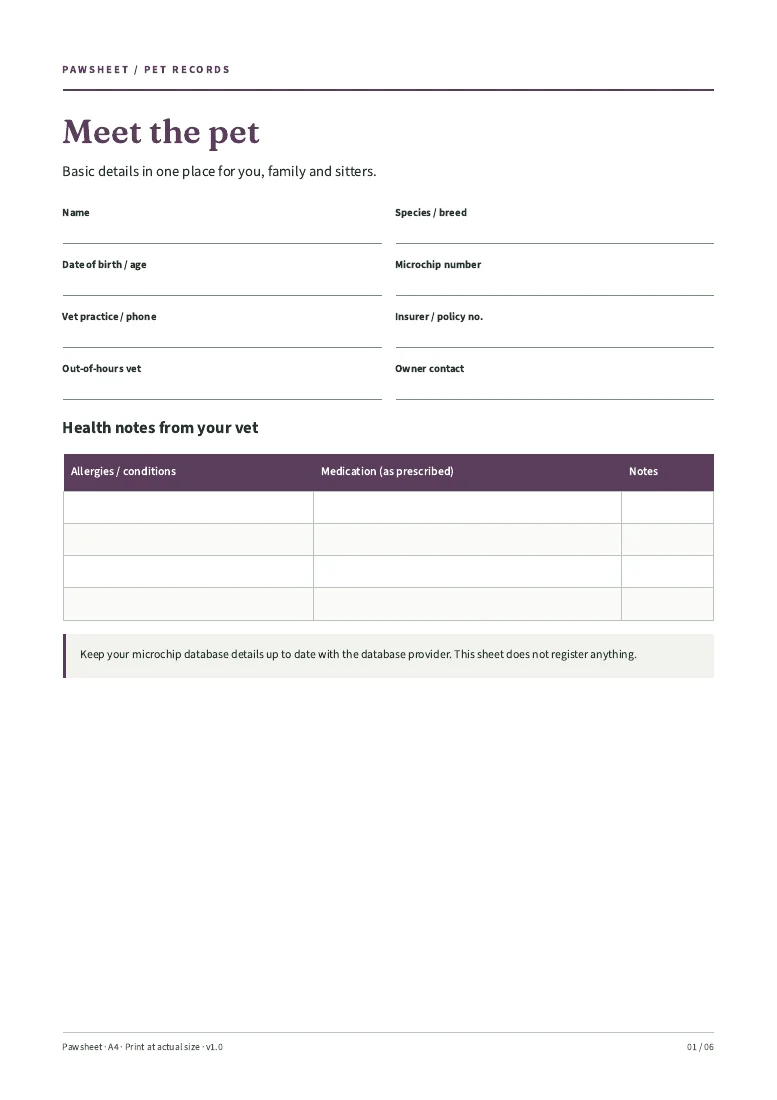
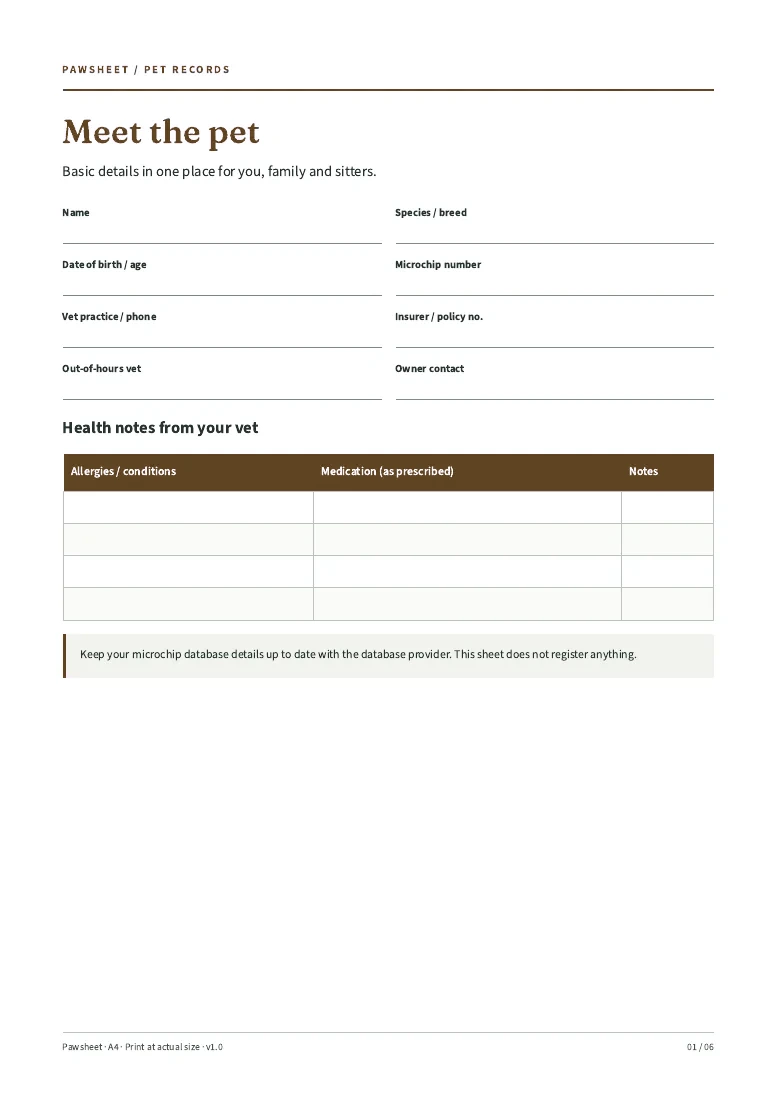
Brown palette (no plum), H1 fits on small phones, plain privacy wording

diff --git a/index.html b/index.html
@@ -1,1 +1,1 @@
-<!doctype html><html lang="en-GB"><head><meta charset="utf-8"><meta name="viewport" content="width=device-width, initial-scale=1"><meta http-equiv="Content-Security-Policy" content="default-src 'none'; script-src 'none'; style-src 'self'; font-src 'self'; img-src 'self'; connect-src 'self'; object-src 'none'; base-uri 'none'; form-action 'none'"><meta name="referrer" content="strict-origin-when-cross-origin"><title>Pet care record printable | Pawsheet</title><meta name="description" content="Pet care record and sitter sheet printable. 6-page A4 printable PDF. Planned price £4 once. Checkout coming soon; no orders taken."><meta property="og:title" content="Pet care record printable | Pawsheet"><meta property="og:description" content="Pet care record and sitter sheet printable. 6-page A4 printable PDF. Planned price £4 once. Checkout coming soon; no orders taken."><meta property="og:type" content="website"><meta property="og:image" content="https://evanturner557-del.github.io/pawsheet/assets/preview-1.webp"><link rel="canonical" href="https://evanturner557-del.github.io/pawsheet/"><link rel="icon" type="image/svg+xml" href="assets/mark.svg"><link rel="stylesheet" href="assets/tokens.css"><link rel="stylesheet" href="assets/site.css"></head><body><a class="skip" href="#main">Skip to content</a><header><div class="wrap nav"><a class="logo" href="index.html"><img src="assets/mark.svg" width="32" height="32" alt="">Pawsheet</a><nav aria-label="Main navigation" class="navlinks"><a href="index.html#inside">Look inside</a><a href="index.html#details">The pack</a></nav></div></header><main id="main"><div class="wrap hero"><div><p class="eyebrow">FOR THE FRIDGE DOOR</p><h1>Your pet’s care notes, ready for the sitter.</h1><p class="lede">A printable pet records pack: vet and treatment dates you write in, feeding routine and a one-page sheet for whoever looks after them.</p><p class="glance"><strong>For:</strong> UK dog and cat owners. <strong>You get:</strong> 6-page A4 printable PDF, to download. <strong>Price:</strong> £4 one-off (planned; not on sale yet).</p><div class="pricebar"><div class="price">£4<small>planned · one-off</small></div><button type="button" disabled>Coming soon</button></div><p class="quiet">Checkout is not open. No orders or payments taken.</p><p class="quiet">6-page A4 printable PDF · Digital files only</p></div><figure class="hero-visual"><img src="assets/preview-1.webp" width="777" height="1100" alt="Pet care record and sitter sheet printable — actual first page of the included PDF" loading="eager" fetchpriority="high"><figcaption>THE REAL FILE / Actual PDF page, not a mock-up.</figcaption></figure></div><div class="strip"><div class="wrap"><span>6-page A4 printable PDF</span><span>One household licence</span><span>No account or subscription</span></div></div><section class="section wrap" id="inside"><div class="sectionhead"><p class="eyebrow">LOOK INSIDE</p><h2>Pet care record and sitter sheet printable.</h2><p>These are renders of the actual included pages. The pack is built; the shop is not open yet.</p></div><div class="proofgrid"><figure class="proof"><div class="proofpic"><img src="assets/preview-1.webp" width="777" height="1100" alt="Everything about your pet" loading="lazy"></div><figcaption><strong>Everything about your pet</strong><span>Actual page 1: microchip, vet, insurer and contacts in one place.</span></figcaption></figure><figure class="proof"><div class="proofpic"><img src="assets/preview-2.webp" width="777" height="1100" alt="Dates you can see" loading="lazy"></div><figcaption><strong>Dates you can see</strong><span>Actual page 3: treatments and visits with the next date your vet gives.</span></figcaption></figure></div></section><section class="section how"><div class="wrap"><p class="eyebrow">THREE SIMPLE STEPS</p><h2>Give each page a job.</h2><div class="steps"><article class="step"><img src="assets/preview-1.webp" width="777" height="1100" alt="Fill the pet page" loading="lazy"><h3>Fill the pet page</h3><p>Use your vet card and paperwork.</p></article><article class="step"><img src="assets/preview-2.webp" width="777" height="1100" alt="Write the routine" loading="lazy"><h3>Write the routine</h3><p>Food, walks and habits, so everyone does the same.</p></article><article class="step"><img src="assets/preview-2.webp" width="777" height="1100" alt="Hand over the sitter sheet" loading="lazy"><h3>Hand over the sitter sheet</h3><p>One page on the fridge when you go away.</p></article></div></div></section><section class="section wrap" id="details"><div class="pricegrid"><div><p class="eyebrow">ONE PACK. ONE PRICE.</p><h2>Know exactly what is in the file.</h2><p>Date-free pages to reprint for each pet in one household.</p><h3>Check the limits first</h3><p>An organisation pack, not veterinary advice. Treatment, vaccination and feeding decisions come from your vet and product labels; dates you write down are reminders only.</p><p class="fine">Standard A4 PDF, rendered and text-extracted in Chromium/Poppler. Made for pen and paper; not fillable or an app.</p></div><div class="pricecard"><p class="badge">Pawsheet / Digital pack</p><p class="large">£4</p><p>Planned price · one-off · not on sale</p><ul class="list"><li>6-page A4 printable PDF</li><li>Pet details page and quick-start guide</li><li>Health and treatment log</li><li>Daily routine page</li><li>One-page sitter sheet</li><li>Weight and notes page</li><li>Plain-text start guide and single-household licence</li></ul><button type="button" disabled>Coming soon</button><p class="fine">No order can be placed here. No payment is collected.</p><p class="fine">No purchases yet. Checkout must show delivery, cancellation and refund terms before sales open. Statutory rights will not be excluded.</p></div></div></section><section class="section how"><div class="wrap faq"><p class="eyebrow">BEFORE YOU DECIDE</p><h2>A few useful answers.</h2><details><summary>What do I need to use it?</summary><p>Standard A4 PDF, rendered and text-extracted in Chromium/Poppler. Made for pen and paper; not fillable or an app.</p></details><details><summary>How do I get started?</summary><p>Start with the pet page. Fill the sitter sheet before your next trip.</p></details><details><summary>Can I buy or download it now?</summary><p>Not yet. The files have been built, but checkout and paid delivery are not open. This page does not take orders or reserve a place.</p></details><details><summary>What about refunds?</summary><p>No purchases are being taken. Sale and delivery terms, including your cancellation and statutory rights, must be shown before checkout opens. There is no blanket “no refunds” policy.</p></details><details><summary>Who is behind it, and what if it is not a fit?</summary><p>Pawsheet is a UK sole-trader trading name. No veterinary advice, treatment schedules, doses, feeding amounts or reminders. Not linked to any microchip database. Please check the previews and limits before buying once sales open.</p></details></div></section><section class="final"><p class="eyebrow">PAWSHEET / 6-page A4 printable PDF</p><h2>Your pet’s care notes, ready for the sitter.</h2><p>£4 planned · one-off. Checkout is not open.</p><button type="button" disabled>Coming soon</button></section></main><footer><div class="wrap"><nav class="footerlinks" aria-label="Legal"><a href="privacy.html">Privacy</a><a href="terms.html">Terms</a></nav><p class="legal">Operated by a UK sole trader trading as Pawsheet. Contact: localreply+pawsheet@agentmail.to. Postal address available on written request.</p><p class="quiet">Digital files only. Checkout is not open. No orders are being taken.</p></div></footer></body></html>
+<!doctype html><html lang="en-GB"><head><meta charset="utf-8"><meta name="viewport" content="width=device-width, initial-scale=1"><meta http-equiv="Content-Security-Policy" content="default-src 'none'; script-src 'none'; style-src 'self'; font-src 'self'; img-src 'self'; connect-src 'self'; object-src 'none'; base-uri 'none'; form-action 'none'"><meta name="referrer" content="strict-origin-when-cross-origin"><title>Pet care record printable | Pawsheet</title><meta name="description" content="Pet care record and sitter sheet printable. 6-page A4 printable PDF. Planned price £4 once. Checkout coming soon; no orders taken."><meta property="og:title" content="Pet care record printable | Pawsheet"><meta property="og:description" content="Pet care record and sitter sheet printable. 6-page A4 printable PDF. Planned price £4 once. Checkout coming soon; no orders taken."><meta property="og:type" content="website"><meta property="og:image" content="https://evanturner557-del.github.io/pawsheet/assets/preview-1.webp"><link rel="canonical" href="https://evanturner557-del.github.io/pawsheet/"><link rel="icon" type="image/svg+xml" href="assets/mark.svg"><link rel="stylesheet" href="assets/tokens.css"><link rel="stylesheet" href="assets/site.css"></head><body><a class="skip" href="#main">Skip to content</a><header><div class="wrap nav"><a class="logo" href="index.html"><img src="assets/mark.svg" width="32" height="32" alt="">Pawsheet</a><nav aria-label="Main navigation" class="navlinks"><a href="index.html#inside">Look inside</a><a href="index.html#details">The pack</a></nav></div></header><main id="main"><div class="wrap hero"><div><p class="eyebrow">FOR THE FRIDGE DOOR</p><h1>Your pet’s care notes, ready for the sitter.</h1><p class="lede">A printable pet records pack: vet and treatment dates you write in, feeding routine and a one-page sheet for whoever looks after them.</p><p class="glance"><strong>For:</strong> UK dog and cat owners. <strong>You get:</strong> 6-page A4 printable PDF, to download. <strong>Price:</strong> £4 one-off (planned; not on sale yet).</p><div class="pricebar"><div class="price">£4<small>planned · one-off</small></div><button type="button" disabled>Coming soon</button></div><p class="quiet">Checkout is not open. No orders or payments taken.</p><p class="quiet">6-page A4 printable PDF · Digital files only</p></div><figure class="hero-visual"><img src="assets/preview-1.webp" width="777" height="1100" alt="Pet care record and sitter sheet printable — actual first page of the included PDF" loading="eager" fetchpriority="high"><figcaption>THE REAL FILE / Actual PDF page, not a mock-up.</figcaption></figure></div><div class="strip"><div class="wrap"><span>6-page A4 printable PDF</span><span>One household licence</span><span>No account or subscription</span></div></div><section class="section wrap" id="inside"><div class="sectionhead"><p class="eyebrow">LOOK INSIDE</p><h2>Pet care record and sitter sheet printable.</h2><p>These are renders of the actual included pages. The pack is built; the shop is not open yet.</p></div><div class="proofgrid"><figure class="proof"><div class="proofpic"><img src="assets/preview-1.webp" width="777" height="1100" alt="Everything about your pet" loading="lazy"></div><figcaption><strong>Everything about your pet</strong><span>Actual page 1: microchip, vet, insurer and contacts in one place.</span></figcaption></figure><figure class="proof"><div class="proofpic"><img src="assets/preview-2.webp" width="777" height="1100" alt="Dates you can see" loading="lazy"></div><figcaption><strong>Dates you can see</strong><span>Actual page 3: treatments and visits with the next date your vet gives.</span></figcaption></figure></div></section><section class="section how"><div class="wrap"><p class="eyebrow">THREE SIMPLE STEPS</p><h2>Give each page a job.</h2><div class="steps"><article class="step"><img src="assets/preview-1.webp" width="777" height="1100" alt="Fill the pet page" loading="lazy"><h3>Fill the pet page</h3><p>Use your vet card and paperwork.</p></article><article class="step"><img src="assets/preview-2.webp" width="777" height="1100" alt="Write the routine" loading="lazy"><h3>Write the routine</h3><p>Food, walks and habits, so everyone does the same.</p></article><article class="step"><img src="assets/preview-2.webp" width="777" height="1100" alt="Hand over the sitter sheet" loading="lazy"><h3>Hand over the sitter sheet</h3><p>One page on the fridge when you go away.</p></article></div></div></section><section class="section wrap" id="details"><div class="pricegrid"><div><p class="eyebrow">ONE PACK. ONE PRICE.</p><h2>Know exactly what is in the file.</h2><p>Date-free pages to reprint for each pet in one household.</p><h3>Check the limits first</h3><p>An organisation pack, not veterinary advice. Treatment, vaccination and feeding decisions come from your vet and product labels; dates you write down are reminders only.</p><p class="fine">Standard A4 PDF, we opened the files and checked the text reads correctly. Made for pen and paper; not fillable or an app.</p></div><div class="pricecard"><p class="badge">Pawsheet / Digital pack</p><p class="large">£4</p><p>Planned price · one-off · not on sale</p><ul class="list"><li>6-page A4 printable PDF</li><li>Pet details page and quick-start guide</li><li>Health and treatment log</li><li>Daily routine page</li><li>One-page sitter sheet</li><li>Weight and notes page</li><li>Plain-text start guide and single-household licence</li></ul><button type="button" disabled>Coming soon</button><p class="fine">No order can be placed here. No payment is collected.</p><p class="fine">No purchases yet. Checkout must show delivery, cancellation and refund terms before sales open. Statutory rights will not be excluded.</p></div></div></section><section class="section how"><div class="wrap faq"><p class="eyebrow">BEFORE YOU DECIDE</p><h2>A few useful answers.</h2><details><summary>What do I need to use it?</summary><p>Standard A4 PDF, we opened the files and checked the text reads correctly. Made for pen and paper; not fillable or an app.</p></details><details><summary>How do I get started?</summary><p>Start with the pet page. Fill the sitter sheet before your next trip.</p></details><details><summary>Can I buy or download it now?</summary><p>Not yet. The files have been built, but checkout and paid delivery are not open. This page does not take orders or reserve a place.</p></details><details><summary>What about refunds?</summary><p>No purchases are being taken. Sale and delivery terms, including your cancellation and statutory rights, must be shown before checkout opens. There is no blanket “no refunds” policy.</p></details><details><summary>Who is behind it, and what if it is not a fit?</summary><p>Pawsheet is a UK sole-trader trading name. No veterinary advice, treatment schedules, doses, feeding amounts or reminders. Not linked to any microchip database. Please check the previews and limits before buying once sales open.</p></details></div></section><section class="final"><p class="eyebrow">PAWSHEET / 6-page A4 printable PDF</p><h2>Your pet’s care notes, ready for the sitter.</h2><p>£4 planned · one-off. Checkout is not open.</p><button type="button" disabled>Coming soon</button></section></main><footer><div class="wrap"><nav class="footerlinks" aria-label="Legal"><a href="privacy.html">Privacy</a><a href="terms.html">Terms</a></nav><p class="legal">Operated by a UK sole trader trading as Pawsheet. Contact: localreply+pawsheet@agentmail.to. Postal address available on written request.</p><p class="quiet">Digital files only. Checkout is not open. No orders are being taken.</p></div></footer></body></html>

diff --git a/assets/site.css b/assets/site.css
@@ -1,2 +1,8 @@
-@font-face{font-family:Text;src:url(fonts/source-sans-3-latin-wght-normal.woff2) format('woff2');font-display:swap}@font-face{font-family:Display;src:url(fonts/fraunces-latin-wght-normal.woff2) format('woff2');font-display:swap}*{box-sizing:border-box}html{scroll-behavior:smooth}body{margin:0;background:var(--paper);color:var(--ink);font-family:Text,Arial,sans-serif;font-size:18px;line-height:1.55}a{color:inherit;text-underline-offset:4px}a:hover{text-decoration-thickness:2px}a:focus-visible,button:focus-visible,summary:focus-visible{outline:3px solid var(--primary);outline-offset:5px}img{max-width:100%;height:auto;display:block}h1,h2,h3,p{margin-top:0}h1,h2{font-family:Display,serif;font-weight:600;letter-spacing:-.035em;line-height:1.06}h1{font-size:clamp(44px,5.8vw,76px);max-width:12ch;margin-bottom:24px}h2{font-size:clamp(34px,4vw,48px);margin-bottom:22px}h3{font-size:23px;line-height:1.2;letter-spacing:-.015em}p{max-width:63ch}button,a{touch-action:manipulation}button{font-family:inherit}button[disabled]{opacity:1;cursor:not-allowed;background:var(--primary);color:#fff;border:2px solid var(--primary);padding:14px 25px;border-radius:6px;font-size:18px;font-weight:700;min-height:52px}header{border-bottom:1px solid var(--line)}.wrap{width:min(1184px,calc(100% - 64px));margin-inline:auto}.nav{display:flex;align-items:center;justify-content:space-between;min-height:88px;gap:20px}.logo{display:flex;align-items:center;gap:12px;font-family:Display,serif;font-size:27px;text-decoration:none;font-weight:600}.logo img{width:32px;height:32px}.navlinks{display:flex;gap:22px}.navlinks a{font-size:16px;min-height:44px;display:inline-flex;align-items:center}.skip{position:absolute;left:-9999px;top:10px;background:white;padding:12px;z-index:9}.skip:focus{left:12px}.hero{display:grid;grid-template-columns:1fr 1fr;gap:70px;align-items:center;padding:64px 0 72px}.eyebrow{font-size:12px;letter-spacing:.14em;font-weight:700;color:var(--primary);margin-bottom:20px}.lede{font-size:21px;line-height:1.5;max-width:38ch}.pricebar{display:flex;gap:23px;align-items:center;margin:26px 0 12px}.price{font-size:34px;font-weight:700;letter-spacing:-.04em;line-height:1}.price small{display:block;font-size:14px;font-weight:400;letter-spacing:0;margin-top:7px;line-height:1.4}.quiet{font-size:15px;color:var(--muted)}.hero-visual{margin:0;position:relative;background:var(--accent);padding:26px 34px 18px;border-radius:100px 8px 8px 8px}.hero-visual img{width:100%;box-shadow:0 14px 35px #0002;border:1px solid #22372b30}.hero-visual figcaption{font-size:13px;margin-top:18px;font-weight:600;color:var(--ink);line-height:1.4}.strip{background:var(--primary);color:white}.strip .wrap{display:flex;justify-content:space-between;gap:20px;padding-block:21px;font-size:16px}.section{padding:88px 0}.sectionhead{max-width:650px}.proofgrid{display:grid;grid-template-columns:1fr 1fr;gap:32px;margin-top:38px}.proof{margin:0}.proofpic{background:white;border:1px solid var(--line);padding:26px;border-radius:8px}.proofpic img{max-height:560px;width:100%;object-fit:contain;object-position:top}.proof figcaption{padding:18px 0}.proof figcaption strong{display:block;font-size:22px;margin-bottom:7px}.proof figcaption span{font-size:17px;color:var(--muted)}.how{background:var(--soft);border-block:1px solid var(--line)}.steps{display:grid;grid-template-columns:repeat(3,1fr);gap:36px;margin-top:36px;counter-reset:step}.step img{height:160px;width:100%;object-fit:cover;object-position:top;border:1px solid var(--line);margin-bottom:25px;background:white}.step h3:before{counter-increment:step;content:'0' counter(step) ' / ';color:var(--primary);font-size:15px}.step p{font-size:17px}.pricegrid{display:grid;grid-template-columns:1fr 1fr;gap:90px;align-items:start}.pricecard{background:#fff;border:1px solid var(--primary);border-top:7px solid var(--primary);padding:35px;border-radius:6px}.pricecard .large{font-size:54px;line-height:1;letter-spacing:-.05em;font-weight:700;margin:24px 0 12px}.list{padding-left:21px}.list li{margin-bottom:11px}.fine{font-size:15px}.faq{max-width:840px;margin:auto}.faq details{border-bottom:1px solid var(--line);padding:10px 0}.faq summary{font-weight:600;cursor:pointer;min-height:52px;padding:12px 32px 12px 0;line-height:1.5;font-size:20px}.faq details p{padding-right:30px;font-size:17px}.final{text-align:center;background:var(--accent);padding:62px 20px}.final p{margin-inline:auto}.final h2{max-width:20ch;margin-inline:auto}footer{padding:40px 0 46px;font-size:14px}.footerlinks{display:flex;gap:20px;flex-wrap:wrap;margin-bottom:18px}.footerlinks a{min-height:44px;display:flex;align-items:center}.legal{max-width:900px;overflow-wrap:anywhere}main.document{max-width:820px;padding:65px 0 90px}.document h1{font-size:54px;max-width:none}.document h2{font-size:29px;margin-top:38px}.document p,.document li{font-size:18px}.badge{font-size:14px;font-weight:600;color:var(--primary)}.sr{position:absolute;width:1px;height:1px;overflow:hidden;clip:rect(0,0,0,0)}@media(max-width:800px){.wrap{width:calc(100% - 40px)}.hero{gap:34px;padding:40px 0 45px}.nav{min-height:72px}.logo{font-size:24px}.navlinks{gap:14px}.navlinks a{font-size:14px}.hero-visual{padding:24px 20px 16px;border-top-left-radius:65px}.lede{font-size:19px}.section{padding:60px 0}.pricegrid{gap:35px}.steps{gap:22px}.pricecard{padding:25px}.proofpic{padding:18px}}@media(max-width:600px){.hero{display:block;padding-top:32px}.eyebrow{font-size:10px;margin-bottom:15px}h1{font-size:45px;max-width:12ch;margin-bottom:19px}.hero .lede{font-size:18px;line-height:1.5;margin-bottom:18px}.hero-visual{margin-top:32px;padding:26px 30px 17px}.pricebar{margin:21px 0 10px;gap:21px}.price{font-size:31px}.quiet{font-size:14px}.navlinks a{font-size:13px}.navlinks a:last-child{display:none}.logo{font-size:23px}.strip .wrap{display:grid;grid-template-columns:1fr;gap:8px;padding-block:20px}.proofgrid,.steps,.pricegrid{grid-template-columns:1fr;gap:24px}.proofgrid{margin-top:28px}.step{display:grid;grid-template-columns:86px 1fr;column-gap:19px}.step img{grid-row:1/3;height:118px;margin:0}.step h3{font-size:21px;margin-bottom:10px}.step p{font-size:16px}.pricegrid{gap:30px}.section{padding:52px 0}.proofpic img{max-height:430px}.final{padding:46px 20px}.document h1{font-size:40px}.document h2{font-size:27px}.navlinks{gap:10px}.legal{font-size:13px}.faq summary{font-size:18px}}@media(prefers-reduced-motion:reduce){html{scroll-behavior:auto}}
+@font-face{font-family:Text;src:url(fonts/source-sans-3-latin-wght-normal.woff2) format('woff2');font-display:swap}@font-face{font-family:Display;src:url(fonts/fraunces-latin-wght-normal.woff2) format('woff2');font-display:swap}*{box-sizing:border-box}html{scroll-behavior:smooth}body{margin:0;background:var(--paper);color:var(--ink);font-family:Text,Arial,sans-serif;font-size:18px;line-height:1.55}a{color:inherit;text-underline-offset:4px}a:hover{text-decoration-thickness:2px}a:focus-visible,button:focus-visible,summary:focus-visible{outline:3px solid var(--primary);outline-offset:5px}img{max-width:100%;height:auto;display:block}h1,h2,h3,p{margin-top:0}h1,h2{font-family:Display,serif;font-weight:600;letter-spacing:-.035em;line-height:1.06}h1{font-size:clamp(1.85rem,6.5vw + .35rem,3.25rem);max-width:none;width:100%;margin-bottom:24px;text-wrap:balance;overflow-wrap:anywhere;letter-spacing:-.02em}h2{font-size:clamp(34px,4vw,48px);margin-bottom:22px}h3{font-size:23px;line-height:1.2;letter-spacing:-.015em}p{max-width:63ch}button,a{touch-action:manipulation}button{font-family:inherit}button[disabled]{opacity:1;cursor:not-allowed;background:var(--primary);color:#fff;border:2px solid var(--primary);padding:14px 25px;border-radius:6px;font-size:18px;font-weight:700;min-height:52px}header{border-bottom:1px solid var(--line)}.wrap{width:min(1184px,calc(100% - 64px));margin-inline:auto}.nav{display:flex;align-items:center;justify-content:space-between;min-height:88px;gap:20px}.logo{display:flex;align-items:center;gap:12px;font-family:Display,serif;font-size:27px;text-decoration:none;font-weight:600}.logo img{width:32px;height:32px}.navlinks{display:flex;gap:22px}.navlinks a{font-size:16px;min-height:44px;display:inline-flex;align-items:center}.skip{position:absolute;left:-9999px;top:10px;background:white;padding:12px;z-index:9}.skip:focus{left:12px}.hero{display:grid;grid-template-columns:1fr 1fr;gap:70px;align-items:center;padding:64px 0 72px}.eyebrow{font-size:12px;letter-spacing:.14em;font-weight:700;color:var(--primary);margin-bottom:20px}.lede{font-size:21px;line-height:1.5;max-width:38ch}.pricebar{display:flex;gap:23px;align-items:center;margin:26px 0 12px}.price{font-size:34px;font-weight:700;letter-spacing:-.04em;line-height:1}.price small{display:block;font-size:14px;font-weight:400;letter-spacing:0;margin-top:7px;line-height:1.4}.quiet{font-size:15px;color:var(--muted)}.hero-visual{margin:0;position:relative;background:var(--accent);padding:26px 34px 18px;border-radius:100px 8px 8px 8px}.hero-visual img{width:100%;box-shadow:0 14px 35px #0002;border:1px solid #22372b30}.hero-visual figcaption{font-size:13px;margin-top:18px;font-weight:600;color:var(--ink);line-height:1.4}.strip{background:var(--primary);color:white}.strip .wrap{display:flex;justify-content:space-between;gap:20px;padding-block:21px;font-size:16px}.section{padding:88px 0}.sectionhead{max-width:650px}.proofgrid{display:grid;grid-template-columns:1fr 1fr;gap:32px;margin-top:38px}.proof{margin:0}.proofpic{background:white;border:1px solid var(--line);padding:26px;border-radius:8px}.proofpic img{max-height:560px;width:100%;object-fit:contain;object-position:top}.proof figcaption{padding:18px 0}.proof figcaption strong{display:block;font-size:22px;margin-bottom:7px}.proof figcaption span{font-size:17px;color:var(--muted)}.how{background:var(--soft);border-block:1px solid var(--line)}.steps{display:grid;grid-template-columns:repeat(3,1fr);gap:36px;margin-top:36px;counter-reset:step}.step img{height:160px;width:100%;object-fit:cover;object-position:top;border:1px solid var(--line);margin-bottom:25px;background:white}.step h3:before{counter-increment:step;content:'0' counter(step) ' / ';color:var(--primary);font-size:15px}.step p{font-size:17px}.pricegrid{display:grid;grid-template-columns:1fr 1fr;gap:90px;align-items:start}.pricecard{background:#fff;border:1px solid var(--primary);border-top:7px solid var(--primary);padding:35px;border-radius:6px}.pricecard .large{font-size:54px;line-height:1;letter-spacing:-.05em;font-weight:700;margin:24px 0 12px}.list{padding-left:21px}.list li{margin-bottom:11px}.fine{font-size:15px}.faq{max-width:840px;margin:auto}.faq details{border-bottom:1px solid var(--line);padding:10px 0}.faq summary{font-weight:600;cursor:pointer;min-height:52px;padding:12px 32px 12px 0;line-height:1.5;font-size:20px}.faq details p{padding-right:30px;font-size:17px}.final{text-align:center;background:var(--accent);padding:62px 20px}.final p{margin-inline:auto}.final h2{max-width:20ch;margin-inline:auto}footer{padding:40px 0 46px;font-size:14px}.footerlinks{display:flex;gap:20px;flex-wrap:wrap;margin-bottom:18px}.footerlinks a{min-height:44px;display:flex;align-items:center}.legal{max-width:900px;overflow-wrap:anywhere}main.document{max-width:820px;padding:65px 0 90px}.document h1{font-size:54px;max-width:none}.document h2{font-size:29px;margin-top:38px}.document p,.document li{font-size:18px}.badge{font-size:14px;font-weight:600;color:var(--primary)}.sr{position:absolute;width:1px;height:1px;overflow:hidden;clip:rect(0,0,0,0)}@media(max-width:800px){.wrap{width:calc(100% - 40px)}.hero{gap:34px;padding:40px 0 45px}.nav{min-height:72px}.logo{font-size:24px}.navlinks{gap:14px}.navlinks a{font-size:14px}.hero-visual{padding:24px 20px 16px;border-top-left-radius:65px}.lede{font-size:19px}.section{padding:60px 0}.pricegrid{gap:35px}.steps{gap:22px}.pricecard{padding:25px}.proofpic{padding:18px}}@media(max-width:600px){.hero{display:block;padding-top:32px}.eyebrow{font-size:10px;margin-bottom:15px}h1{font-size:clamp(1.85rem,6.5vw + .35rem,2.6rem);max-width:none;width:100%;margin-bottom:19px;text-wrap:balance;overflow-wrap:anywhere;letter-spacing:-.02em}.hero .lede{font-size:18px;line-height:1.5;margin-bottom:18px}.hero-visual{margin-top:32px;padding:26px 30px 17px}.pricebar{margin:21px 0 10px;gap:21px}.price{font-size:31px}.quiet{font-size:14px}.navlinks a{font-size:13px}.navlinks a:last-child{display:none}.logo{font-size:23px}.strip .wrap{display:grid;grid-template-columns:1fr;gap:8px;padding-block:20px}.proofgrid,.steps,.pricegrid{grid-template-columns:1fr;gap:24px}.proofgrid{margin-top:28px}.step{display:grid;grid-template-columns:86px 1fr;column-gap:19px}.step img{grid-row:1/3;height:118px;margin:0}.step h3{font-size:21px;margin-bottom:10px}.step p{font-size:16px}.pricegrid{gap:30px}.section{padding:52px 0}.proofpic img{max-height:430px}.final{padding:46px 20px}.document h1{font-size:40px}.document h2{font-size:27px}.navlinks{gap:10px}.legal{font-size:13px}.faq summary{font-size:18px}}@media(prefers-reduced-motion:reduce){html{scroll-behavior:auto}}
 .glance{font-size:17px;line-height:1.5;background:var(--soft);border-left:4px solid var(--primary);padding:12px 16px;margin:0 0 22px;max-width:56ch}
+
+/* prep-d09-h1-overflow */html,body{overflow-x:clip}h1{overflow-wrap:break-word;text-wrap:balance}
+
+.hero>div:first-child{min-width:0;max-width:100%}h1{box-sizing:border-box;padding-inline:0}
+
+/* prep-d09-h1-track */h1{letter-spacing:-.02em!important}

diff --git a/privacy.html b/privacy.html
@@ -1,1 +1,1 @@
-<!doctype html><html lang="en-GB"><head><meta charset="utf-8"><meta name="viewport" content="width=device-width, initial-scale=1"><meta http-equiv="Content-Security-Policy" content="default-src 'none'; script-src 'none'; style-src 'self'; font-src 'self'; img-src 'self'; connect-src 'self'; object-src 'none'; base-uri 'none'; form-action 'none'"><meta name="referrer" content="strict-origin-when-cross-origin"><title>Privacy | Pawsheet</title><meta name="description" content="Privacy for Pawsheet"><meta property="og:title" content="Privacy | Pawsheet"><meta property="og:description" content="Privacy for Pawsheet"><meta property="og:type" content="website"><meta property="og:image" content="https://evanturner557-del.github.io/pawsheet/assets/preview-1.webp"><link rel="canonical" href="https://evanturner557-del.github.io/pawsheet/"><link rel="icon" type="image/svg+xml" href="assets/mark.svg"><link rel="stylesheet" href="assets/tokens.css"><link rel="stylesheet" href="assets/site.css"></head><body><a class="skip" href="#main">Skip to content</a><header><div class="wrap nav"><a class="logo" href="index.html"><img src="assets/mark.svg" width="32" height="32" alt="">Pawsheet</a><nav aria-label="Main navigation" class="navlinks"><a href="index.html#inside">Look inside</a><a href="index.html#details">The pack</a></nav></div></header><main id="main" class="wrap document"><h1>Privacy</h1><p>Last updated: 8 November 2026.</p><h2>Who is responsible</h2><p>Pawsheet is operated by a UK sole trader. Contact: localreply+pawsheet@agentmail.to. Postal address available on written request.</p><h2>This site</h2><p>This is a static information site. We do not run forms, analytics, tracking pixels, advertising cookies, payments or user accounts. We do not place cookies or use local storage. Images and fonts are served with the site. The downloadable files have no tracking or upload feature.</p><h2>Hosting records</h2><p>If hosted on GitHub Pages, GitHub may process technical request information, including IP address, browser details and access logs, to operate and secure the service. Its retention and international processing are governed by GitHub’s privacy statement. This site is currently prepared as a local draft. Hosting details must be checked when deployed.</p><h2>If you email</h2><p>Sending email is optional. The mailbox is handled through AgentMail. Your email address, message and attachments may be processed to handle your enquiry and keep necessary business records. We use legitimate interests for ordinary enquiries and legal obligations where records must be kept. We cannot promise a reply or a timeframe yet. Do not send sensitive data or completed planners.</p><h2>Retention and processors</h2><p>Enquiries should be kept only as long as needed to handle the request or a legal obligation, then removed. No automatic deletion schedule has been verified. AgentMail and any deployed hosting provider may process data outside the UK. Processor terms and transfer safeguards must be reviewed before a sales service is opened. We do not sell your personal information.</p><h2>Your rights</h2><p>You may ask about access, correction, deletion, restriction, portability where applicable, or object to legitimate-interest processing. Contact the address above. Statutory response requirements still apply; our support statement does not remove your rights. You may complain to the Information Commissioner’s Office at ico.org.uk.</p><h2>Changes</h2><p>If checkout, analytics or another data-collecting feature is added, this notice must be reviewed before that feature is used.</p></main><footer><div class="wrap"><nav class="footerlinks" aria-label="Legal"><a href="privacy.html">Privacy</a><a href="terms.html">Terms</a></nav><p class="legal">Operated by a UK sole trader trading as Pawsheet. Contact: localreply+pawsheet@agentmail.to. Postal address available on written request.</p><p class="quiet">Digital files only. Checkout is not open. No orders are being taken.</p></div></footer></body></html>
+<!doctype html><html lang="en-GB"><head><meta charset="utf-8"><meta name="viewport" content="width=device-width, initial-scale=1"><meta http-equiv="Content-Security-Policy" content="default-src 'none'; script-src 'none'; style-src 'self'; font-src 'self'; img-src 'self'; connect-src 'self'; object-src 'none'; base-uri 'none'; form-action 'none'"><meta name="referrer" content="strict-origin-when-cross-origin"><title>Privacy | Pawsheet</title><meta name="description" content="Privacy for Pawsheet"><meta property="og:title" content="Privacy | Pawsheet"><meta property="og:description" content="Privacy for Pawsheet"><meta property="og:type" content="website"><meta property="og:image" content="https://evanturner557-del.github.io/pawsheet/assets/preview-1.webp"><link rel="canonical" href="https://evanturner557-del.github.io/pawsheet/"><link rel="icon" type="image/svg+xml" href="assets/mark.svg"><link rel="stylesheet" href="assets/tokens.css"><link rel="stylesheet" href="assets/site.css"></head><body><a class="skip" href="#main">Skip to content</a><header><div class="wrap nav"><a class="logo" href="index.html"><img src="assets/mark.svg" width="32" height="32" alt="">Pawsheet</a><nav aria-label="Main navigation" class="navlinks"><a href="index.html#inside">Look inside</a><a href="index.html#details">The pack</a></nav></div></header><main id="main" class="wrap document"><h1>Privacy</h1><p>Last updated: 8 November 2026.</p><h2>Who is responsible</h2><p>Pawsheet is operated by a UK sole trader. Contact: localreply+pawsheet@agentmail.to. Postal address available on written request.</p><h2>This site</h2><p>This is a static information site. We do not run forms, analytics, tracking pixels, advertising cookies, payments or user accounts. We do not place cookies or use local storage. Images and fonts are served with the site. The downloadable files have no tracking or upload feature.</p><h2>Hosting records</h2><p>This site is hosted on GitHub Pages. GitHub may process technical request information, including IP address, browser details and access logs, to operate and secure the service. Its retention and international processing are governed by GitHub’s privacy statement. </p><h2>If you email</h2><p>Sending email is optional. The mailbox is handled through AgentMail. Your email address, message and attachments may be processed to handle your enquiry and keep necessary business records. We use legitimate interests for ordinary enquiries and legal obligations where records must be kept. We cannot promise a reply or a timeframe yet. Do not send sensitive data or completed planners.</p><h2>Retention and processors</h2><p>Enquiries should be kept only as long as needed to handle the request or a legal obligation, then removed. No automatic deletion schedule has been verified. AgentMail and any deployed hosting provider may process data outside the UK. Processor terms and transfer safeguards must be reviewed before a sales service is opened. We do not sell your personal information.</p><h2>Your rights</h2><p>You may ask about access, correction, deletion, restriction, portability where applicable, or object to legitimate-interest processing. Contact the address above. Statutory response requirements still apply; our support statement does not remove your rights. You may complain to the Information Commissioner’s Office at ico.org.uk.</p><h2>Changes</h2><p>If checkout, analytics or another data-collecting feature is added, this notice must be reviewed before that feature is used.</p></main><footer><div class="wrap"><nav class="footerlinks" aria-label="Legal"><a href="privacy.html">Privacy</a><a href="terms.html">Terms</a></nav><p class="legal">Operated by a UK sole trader trading as Pawsheet. Contact: localreply+pawsheet@agentmail.to. Postal address available on written request.</p><p class="quiet">Digital files only. Checkout is not open. No orders are being taken.</p></div></footer></body></html>

diff --git a/assets/tokens.css b/assets/tokens.css
@@ -1,1 +1,1 @@
-:root{--primary:#5a3d5c;--accent:#f3c9a0;--paper:#fbf7f4;--ink:#202b25;--muted:#4b5c50;--line:#b8c3b8;--soft:#edf1e9;--success:#28603d;--warning:#795400;--danger:#9b2525;--neutral-0:#ffffff;--neutral-1:#f8f9f7;--neutral-2:#eff1ed;--neutral-3:#e0e5de;--neutral-4:#c5cec2;--neutral-5:#8a9787;--neutral-6:#62705f;--neutral-7:#3d4b3b;--neutral-8:#202b20;}
+:root{--primary:#5A3E1B;--accent:#f3c9a0;--paper:#fbf7f4;--ink:#202b25;--muted:#4b5c50;--line:#b8c3b8;--soft:#edf1e9;--success:#28603d;--warning:#795400;--danger:#9b2525;--neutral-0:#ffffff;--neutral-1:#f8f9f7;--neutral-2:#eff1ed;--neutral-3:#e0e5de;--neutral-4:#c5cec2;--neutral-5:#8a9787;--neutral-6:#62705f;--neutral-7:#3d4b3b;--neutral-8:#202b20;}

diff --git a/brand.md b/brand.md
@@ -1,7 +1,7 @@
 # Pawsheet brand system
 
 Position: Pet care record and sitter sheet printable for UK dog and cat owners, with calm, practical page design.
-Primary #5a3d5c; accent #f3c9a0; nine-step neutral ramp and status colours in assets/tokens.css. Display: fraunces; text: Source Sans 3. SIL OFL fonts and licences included. Scale: mobile 45/34/23/18/15; desktop 76/48/23/21/18/15.
+Primary #5A3E1B; accent #f3c9a0; nine-step neutral ramp and status colours in assets/tokens.css. Display: fraunces; text: Source Sans 3. SIL OFL fonts and licences included. Scale: mobile 45/34/23/18/15; desktop 76/48/23/21/18/15.
 
 Logo directions considered: pure wordmark (clear but generic); open-path symbol + wordmark (selected); initial monogram (rejected as generic). Mark is an original line symbol for Pawsheet, not a boxed letter. Favicons use the same open-path symbol. No invented affiliations.
 
